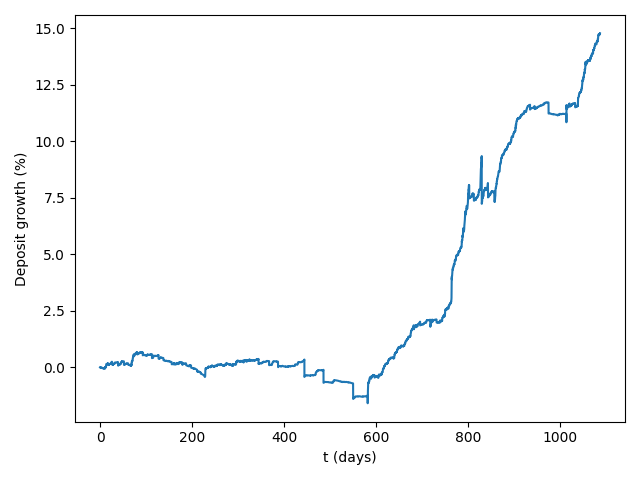
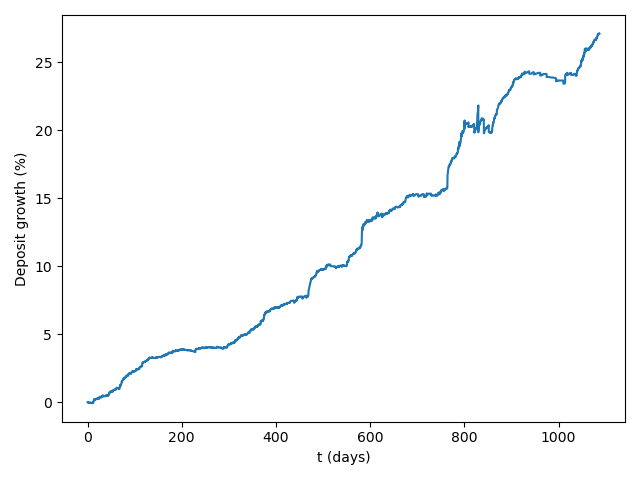
price_scale - experimenting with pscale step size

diff --git a/ethusd/8_gen_one.py b/ethusd/8_gen_one.py
@@ -72,7 +72,7 @@ BASE_POOL = {
     "out_fee": int(50 / 10_000 * 10**10),
     "fee_gamma": int(0.001 * 10**18),
     "allowed_extra_profit": int(1e-12 * 10**18),
-    "adjustment_step": int(1e-7 * 10**18),
+    "adjustment_step": int(0.01 * 10**18),
     "ma_time": 866,  # int(86400 / math.log(2)), #5200,
     "initial_price": int(init_price * 10**18),
     "start_timestamp": START_TS,
